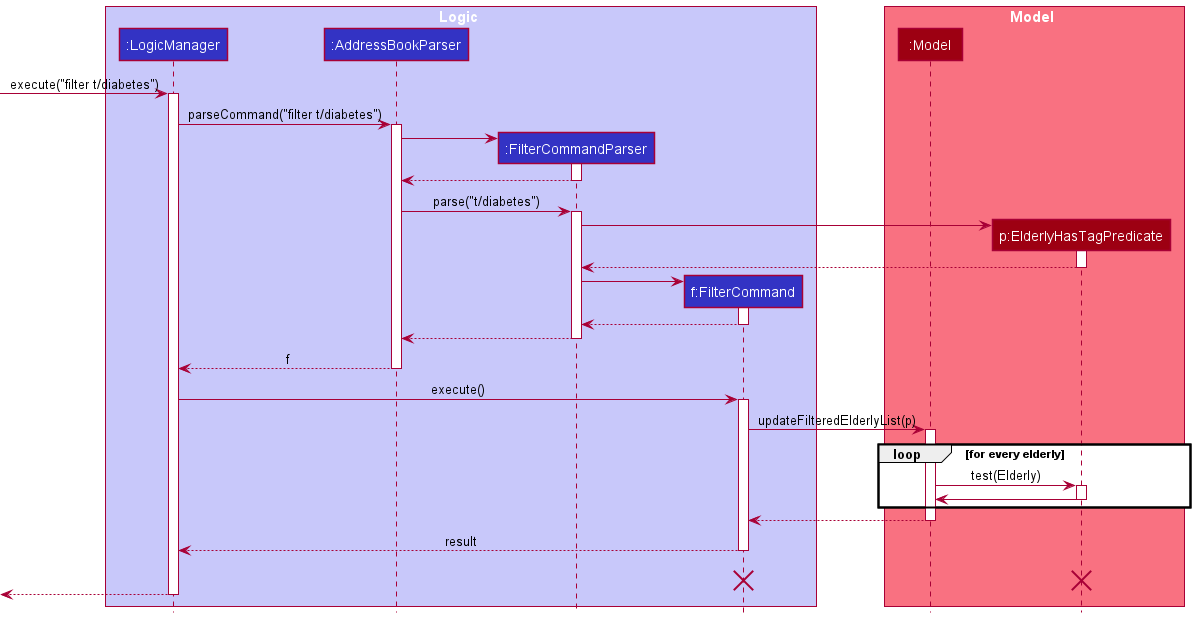
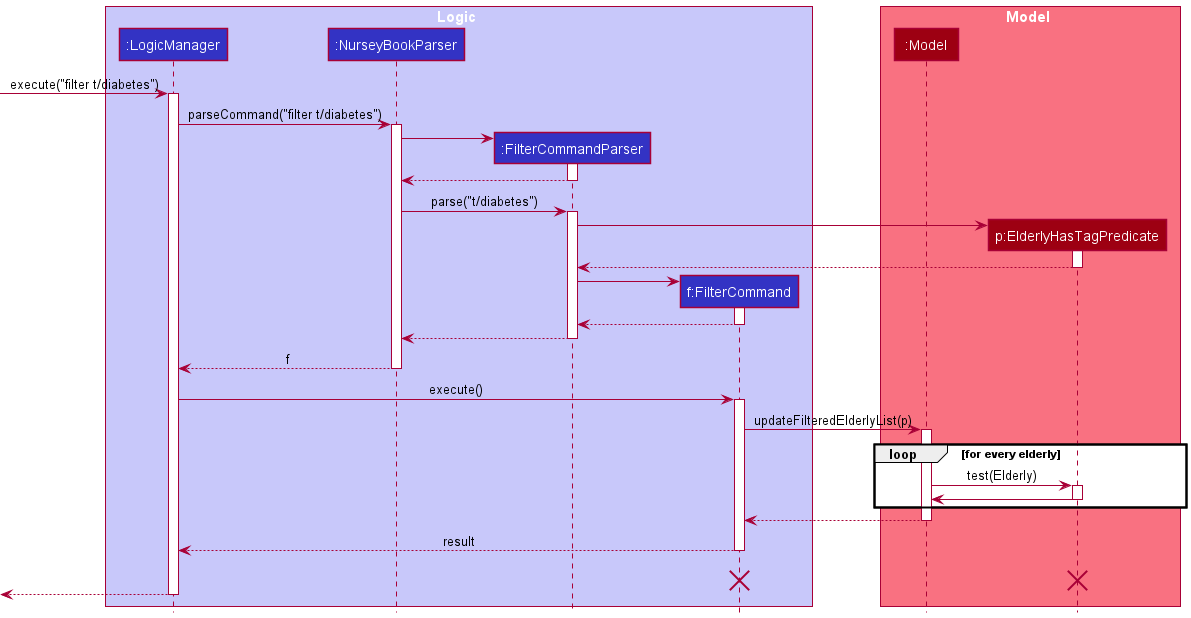
Update DG and UML diagrams

diff --git a/docs/DeveloperGuide.md b/docs/DeveloperGuide.md
@@ -9,7 +9,10 @@ title: Developer Guide
 
 ## **Acknowledgements**
 
-* {list here sources of all reused/adapted ideas, code, documentation, and third-party libraries -- include links to the original source as well}
+* [JavaFX](https://openjfx.io/)
+* [Jackson](https://github.com/FasterXML/jackson)
+* [JUnit5](https://github.com/junit-team/junit5)
+* [Address Book Level 4](https://github.com/se-edu/addressbook-level4)
 
 --------------------------------------------------------------------------------------------------------------------
 
@@ -23,7 +26,8 @@ Refer to the guide [_Setting up and getting started_](SettingUp.md).
 
 <div markdown="span" class="alert alert-primary">
 
-:bulb: **Tip:** The `.puml` files used to create diagrams in this document can be found in the [diagrams](https://github.com/se-edu/addressbook-level3/tree/master/docs/diagrams/) folder. Refer to the [_PlantUML Tutorial_ at se-edu/guides](https://se-education.org/guides/tutorials/plantUml.html) to learn how to create and edit diagrams.
+:bulb: **Tip:** The `.puml` files used to create diagrams in this document can be found in the [diagrams](https://github.com/AY2122S1-CS2103T-F13-2/tp/tree/master/docs/diagrams) folder. 
+Refer to the [_PlantUML Tutorial_ at se-edu/guides](https://se-education.org/guides/tutorials/plantUml.html) to learn how to create and edit diagrams.
 </div>
 
 ### Architecture
@@ -36,7 +40,7 @@ Given below is a quick overview of main components and how they interact with ea
 
 **Main components of the architecture**
 
-**`Main`** has two classes called [`Main`](https://github.com/se-edu/addressbook-level3/tree/master/src/main/java/seedu/address/Main.java) and [`MainApp`](https://github.com/se-edu/addressbook-level3/tree/master/src/main/java/seedu/address/MainApp.java). It is responsible for,
+**`Main`** has two classes called [`Main`](https://github.com/AY2122S1-CS2103T-F13-2/tp/blob/master/src/main/java/nurseybook/Main.java) and [`MainApp`](https://github.com/AY2122S1-CS2103T-F13-2/tp/blob/master/src/main/java/nurseybook/MainApp.java). It is responsible for,
 * At app launch: Initializes the components in the correct sequence, and connects them up with each other.
 * At shut down: Shuts down the components and invokes cleanup methods where necessary.
 
@@ -59,7 +63,7 @@ The *Sequence Diagram* below shows how the components interact with each other f
 Each of the four main components (also shown in the diagram above),
 
 * defines its *API* in an `interface` with the same name as the Component.
-* implements its functionality using a concrete `{Component Name}Manager` class (which follows the corresponding API `interface` mentioned in the previous point.
+* implements its functionality using a concrete `{Component Name}Manager` class which follows the corresponding API `interface` mentioned in the previous point.
 
 For example, the `Logic` component defines its API in the `Logic.java` interface and implements its functionality using the `LogicManager.java` class which follows the `Logic` interface. Other components interact with a given component through its interface rather than the concrete class (reason: to prevent outside component's being coupled to the implementation of a component), as illustrated in the (partial) class diagram below.
 
@@ -69,13 +73,13 @@ The sections below give more details of each component.
 
 ### UI component
 
-The **API** of this component is specified in [`Ui.java`](https://github.com/se-edu/addressbook-level3/tree/master/src/main/java/seedu/address/ui/Ui.java)
+The **API** of this component is specified in [`Ui.java`](https://github.com/AY2122S1-CS2103T-F13-2/tp/blob/master/src/main/java/nurseybook/ui/Ui.java)
 
 ![Structure of the UI Component](images/UiClassDiagram.png)
 
 The UI consists of a `MainWindow` that is made up of parts e.g.`CommandBox`, `ResultDisplay`, `ElderlyListPanel`, `StatusBarFooter` etc. All these, including the `MainWindow`, inherit from the abstract `UiPart` class which captures the commonalities between classes that represent parts of the visible GUI.
 
-The `UI` component uses the JavaFx UI framework. The layout of these UI parts are defined in matching `.fxml` files that are in the `src/main/resources/view` folder. For example, the layout of the [`MainWindow`](https://github.com/se-edu/addressbook-level3/tree/master/src/main/java/seedu/address/ui/MainWindow.java) is specified in [`MainWindow.fxml`](https://github.com/se-edu/addressbook-level3/tree/master/src/main/resources/view/MainWindow.fxml)
+The `UI` component uses the JavaFx UI framework. The layout of these UI parts are defined in matching `.fxml` files that are in the `src/main/resources/view` folder. For example, the layout of the [`MainWindow`](https://github.com/AY2122S1-CS2103T-F13-2/tp/blob/master/src/main/java/nurseybook/ui/MainWindow.java) is specified in [`MainWindow.fxml`](https://github.com/se-edu/AY2122S1-CS2103T-F13-2/tp/tree/master/src/main/resources/view/MainWindow.fxml)
 
 The `UI` component,
 
@@ -86,16 +90,16 @@ The `UI` component,
 
 ### Logic component
 
-**API** : [`Logic.java`](https://github.com/se-edu/addressbook-level3/tree/master/src/main/java/seedu/address/logic/Logic.java)
+**API** : [`Logic.java`](https://github.com/AY2122S1-CS2103T-F13-2/tp/blob/master/src/main/java/nurseybook/logic/Logic.java)
 
 Here's a (partial) class diagram of the `Logic` component:
 
 <img src="images/LogicClassDiagram.png" width="550"/>
 
 How the `Logic` component works:
-1. When `Logic` is called upon to execute a command, it uses the `AddressBookParser` class to parse the user command.
+1. When `Logic` is called upon to execute a command, it uses the `NurseyBookParser` class to parse the user command.
 1. This results in a `Command` object (more precisely, an object of one of its subclasses e.g., `AddCommand`) which is executed by the `LogicManager`.
-1. The command can communicate with the `Model` when it is executed (e.g. to add a elderly).
+1. The command can communicate with the `Model` when it is executed (e.g. to add an elderly).
 1. The result of the command execution is encapsulated as a `CommandResult` object which is returned back from `Logic`.
 
 The Sequence Diagram below illustrates the interactions within the `Logic` component for the `execute("deleteElderly 1")` API call.
@@ -110,33 +114,33 @@ Here are the other classes in `Logic` (omitted from the class diagram above) tha
 <img src="images/ParserClasses.png" width="600"/>
 
 How the parsing works:
-* When called upon to parse a user command, the `AddressBookParser` class creates an `XYZCommandParser` (`XYZ` is a placeholder for the specific command name e.g., `AddCommandParser`) which uses the other classes shown above to parse the user command and create a `XYZCommand` object (e.g., `AddCommand`) which the `AddressBookParser` returns back as a `Command` object.
+* When called upon to parse a user command, the `NurseyBookParser` class creates an `XYZCommandParser` (`XYZ` is a placeholder for the specific command name e.g., `AddCommandParser`) which uses the other classes shown above to parse the user command and create a `XYZCommand` object (e.g., `AddCommand`) which the `NurseyBookParser` returns back as a `Command` object.
 * All `XYZCommandParser` classes (e.g., `AddCommandParser`, `DeleteCommandParser`, ...) inherit from the `Parser` interface so that they can be treated similarly where possible e.g, during testing.
 
 ### Model component
-**API** : [`Model.java`](https://github.com/se-edu/addressbook-level3/tree/master/src/main/java/seedu/address/model/Model.java)
+**API** : [`Model.java`](https://github.com/AY2122S1-CS2103T-F13-2/tp/blob/master/src/main/java/nurseybook/model/Model.java)
 
 <img src="images/ModelClassDiagram.png" width="400" />
 
 
 The `Model` component,
 
-* stores the address book data i.e., all `Elderly` objects (which are contained in a `UniqueElderlyList` object).
-* implicitly also stores `Nok` objects which is contained in `Elderly` objects
+* stores the nursey book data i.e., all `Elderly` objects (which are contained in a `UniqueElderlyList` object) and all `Task` objects (which are contained in a `UniqueTaskList` object).
 * stores the currently 'selected' `Elderly` objects (e.g., results of a search query) as a separate _filtered_ list which is exposed to outsiders as an unmodifiable `ObservableList<Elderly>` that can be 'observed' e.g. the UI can be bound to this list so that the UI automatically updates when the data in the list change.
-* stores the currently 'selected' `Task` objects in a similar way to `Elderly` objects
-which is also exposed to outsiders as an unmodifiable `ObservableList<Task>`.
+* stores the currently 'selected' `Task` objects in a similar way to `Elderly` objects which is also exposed to outsiders as an unmodifiable `ObservableList<Task>`.
 * stores a `UserPref` object that represents the user’s preferences. This is exposed to the outside as a `ReadOnlyUserPref` objects.
-* does not depend on any of the other three components (as the `Model` represents data entities of the domain, they should make sense on their own without depending on other components)
+* stores the states of the nursey book after the execution of commands that change the data in `NurseyBookState` objects.
+* depends on some classes in the `Logic` component because the `Model` component saves the result after the execution of commands that change the data of nursey book.
+* does not depend on the `Storage` and `Ui` components (as the `Model` represents data entities of the domain, they should make sense on their own without depending on `Storage` and `Ui`)
 
 
-<img src="images/DetailedModelClassDiagram.png" width="800" />
+<img src="images/DetailedModelClassDiagram.png" width="800" /> //TODO 
 
 
-More details regarding `Person`, `Elderly`, `Nok` and `Task` objects.
+More details regarding `Person`, `Elderly`, `Nok`(Next of kin) and `Task` objects.
 
 
-<div markdown="span" class="alert alert-info">:information_source: **Note:** An alternative (arguably, a more OOP) model is given below. It has a `Tag` list in the `AddressBook`, which `Elderly` references. This allows `AddressBook` to only require one `Tag` object per unique tag, instead of each `Elderly` needing their own `Tag` objects.<br>
+<div markdown="span" class="alert alert-info">:information_source: **Note:** An alternative (arguably, a more OOP) model is given below. It has a `Tag` list in the `NurseyBook`, which `Elderly` references. This allows `NurseyBook` to only require one `Tag` object per unique tag, instead of each `Elderly` needing their own `Tag` objects.<br>
 
 <img src="images/BetterModelClassDiagram.png" width="250" />
 
@@ -145,18 +149,18 @@ More details regarding `Person`, `Elderly`, `Nok` and `Task` objects.
 
 ### Storage component
 
-**API** : [`Storage.java`](https://github.com/se-edu/addressbook-level3/tree/master/src/main/java/seedu/address/storage/Storage.java)
+**API** : [`Storage.java`](https://github.com/AY2122S1-CS2103T-F13-2/tp/blob/master/src/main/java/nurseybook/storage/Storage.java)
 
 <img src="images/StorageClassDiagram.png" width="550" />
 
 The `Storage` component,
-* can save both address book data and user preference data in json format, and read them back into corresponding objects.
-* inherits from both `AddressBookStorage` and `UserPrefStorage`, which means it can be treated as either one (if only the functionality of only one is needed).
+* can save both nursey book data and user preference data in json format, and read them back into corresponding objects.
+* inherits from both `NurseyBookStorage` and `UserPrefStorage`, which means it can be treated as either one (if only the functionality of only one is needed).
 * depends on some classes in the `Model` component (because the `Storage` component's job is to save/retrieve objects that belong to the `Model`)
 
 ### Common classes
 
-Classes used by multiple components are in the `seedu.addressbook.commons` package.
+Classes used by multiple components are in the `nurseybook.commons` package.
 
 --------------------------------------------------------------------------------------------------------------------
 
@@ -186,7 +190,7 @@ As tags can only be alphanumeric, the `parse` method in FilterCommandParser chec
 If there is a tag that is invalid, an exception will be thrown.
 
 When executing the filter command, the `updateFilteredElderlyList` method of Model calls other methods that are omitted from the diagram.
-One of the methods then calls the `test` method of the ElderlyHasTagPredicate object with every Elderly saved in NurseyBook.
+One of the methods then calls the `test` method of the ElderlyHasTagPredicate object with every Elderly saved in nursey book.
 The list of Elderly that return true for `test` is then assigned to `filteredElderlies` in ModelManager and displayed in the GUI.
 
 #### Design Considerations
@@ -240,7 +244,7 @@ If a user does not specify `Recurrence` when adding a new `Task`, it will defaul
     * Pros: User Experience could be more intuitive in the sense that the user can focus on the next deadline rather than the current completed task
     * Cons: There is an increase in coupling between the `Task`’s `Status`, `Recurrence` and `DateTime` because `DateTime` now needs to depend on `Status` and `Recurrence` to decide if its date and time needs to be changed. This can increase bugs and make testing harder as more functions would have side effects (reseting task’s completion `Status` and updating `Task`’s `DateTime`).
 
-* Alternative 2: Once a `DateTime` of a `Task` has been passed, this will trigger Nurseybook to update the new `DateTime` of the `Task` according to its `Recurrence` type.
+* Alternative 2: Once a `DateTime` of a `Task` has been passed, this will trigger nursey book to update the new `DateTime` of the `Task` according to its `Recurrence` type.
     * Pros: Easier to implement because there is only one condition that needs to be checked (if the `Task`’s `DateTime` is before the current `DateTime`) for the `Task`’s `DateTime` to be updated.
     * Cons: Restricted choice for users who would prefer seeing upcoming tasks to seeing completed tasks.
 
@@ -344,7 +348,7 @@ The following activity diagram summarizes what happens when a user executes a ne
 
 * **Alternative 1:** Saves the entire nursey book.
   * Pros: Easy to implement.
-  * Cons: May have performance issues in terms of memory usage as copies of the entire nurseybook are saved.
+  * Cons: May have performance issues in terms of memory usage as copies of the entire nursey book are saved.
 
 * **Alternative 2:** Individual command knows how to undo/redo by itself.
   * Pros: Will use less memory (e.g. for `deleteElderly`, just save the elderly being deleted).
@@ -377,9 +381,9 @@ Given below is an example usage scenario and how the delete Nok mechanism behave
 
 Step 1. The user and executes `deleteNok 1` command to delete the NoK details of the first elderly in the elderly list. This prompts the `LogicManager` to start its execution by calling its `execute()` command.
 
-Step 2. `LogicManager` calls the `AddressBookParser` to parse the command.
+Step 2. `LogicManager` calls the `NurseyBookParser` to parse the command.
 
-Step 3. The `AddressBookParser` creates a new `DeleteNokCommandParser` which will `parse()` the arguments. This creates and returns a new `DeleteNokCommand` which is ready to be executed, containing the index of the targetted elderly as one of its fields.
+Step 3. The `NurseyBookParser` creates a new `DeleteNokCommandParser` object and calls its `parse` method to parse the arguments. This creates and returns a new `DeleteNokCommand` which is ready to be executed, containing the index of the target elderly as one of its fields.
 
 Step 4. The `DeleteNokCommand` is executed by calling its `execute()` method. This calls the `Model#getFilteredElderlyList()` and retrieves the filtered elderly list, which should contain all elderlies.
 
@@ -397,8 +401,6 @@ The following sequence diagram shows how the find task operation works:
 
 </div>
 
-
-
 ### Find task feature
 
 #### Implementation
@@ -409,9 +411,9 @@ Given below is an example usage scenario and how the find task mechanism behaves
 
 Step 1. The user launches the application and executes `findTask Pfizer` command to search for a list of tasks whose `Description` contains the keyword `Pfizer`. This prompts the `LogicManager` to start its execution by calling its `execute()` command.
 
-Step 2. `LogicManager` calls the `AddressBookParser` to parse the command.
+Step 2. `LogicManager` calls the `NurseyBookParser` to parse the command.
 
-Step 3. The `AddressBookParser` creates a new `FindCommandParser` which will `parse()` the arguments. This creates a new `DescriptionContainsKeywordPredicate` that checks if a `Task`'s `Description` contains the keyword(s) - `Pfizer` in this case. A new `FindTaskCommand` which is ready to be executed is returned, containing the predicate as one of its fields.
+Step 3. The `NurseyBookParser` creates a new `FindCommandParser` which will `parse()` the arguments. This creates a new `DescriptionContainsKeywordPredicate` that checks if a `Task`'s `Description` contains the keyword(s) - `Pfizer` in this case. A new `FindTaskCommand` which is ready to be executed is returned, containing the predicate as one of its fields.
 
 Step 4. The `FindTaskCommand` is executed by calling its `execute()` method. This calls the `Model#updateFilteredTaskList()` and updates the filtered task list by checking the tasks with `DescriptionContainsKeywordPredicate`.
 
@@ -429,11 +431,11 @@ The following sequence diagram shows how the find task operation works:
 
 #### How `CommandResult` is changed
 
-As NurseyBook has to support the display of two different lists (contacts vs task), each `CommandResult` object will now store the information which list should be displayed to the user.
+As nursey book has to support the display of two different lists (contacts vs task), each `CommandResult` object will now store the information which list should be displayed to the user.
 
 The following class diagram shows the changes made to the `CommandResult` class. Each `CommandResult` has an enum that specifies the type of display.
 
-* `CommandResult#ListDisplayChange.PERSON` — Specifies the elderly/contact list to be displayed after the current command execution
+* `CommandResult#ListDisplayChange.ELDERLY` — Specifies the elderly list to be displayed after the current command execution
 * `CommandResult#ListDisplayChange.TASK` — Specifies the task list to be displayed after the current command execution
 * `CommandResult#ListDisplayChange.NONE` — Specifies the type of displayed list should not change after the current command execution
 
@@ -447,13 +449,13 @@ The following class diagram shows the changes made to the `CommandResult` class.
 
 Given below is an example usage scenario and how the display of elderly/task list mechanism behaves at each step. An example command is `viewElderly`, and the mechanism of `viewTasks` is similar.
 
-Step 1. The user launches the application for the first time. The default display of NurseyBook shows the list of all elderly contacts that were added in.
+Step 1. The user launches the application for the first time. The default display of nursey book shows the list of all elderly that were added in.
 
-Step 2. The user runs a few other available commands, and wants to switch back to the default display with the elderly contacts, thus executes the `viewElderly` command.
+Step 2. The user runs a few other available commands, and wants to switch back to the default display with the elderly, thus executes the `viewElderly` command.
 
 Step 3. `MainWindow#executeCommand("viewElderly")` is called. Within the method body, it calls the `LogicManager#execute()` which returns a new `CommandResult`.
 
-Step 4. `MainWindow#executeCommand()` processes the `CommandResult`. It calls `MainWindow#handleChange()` to change the display of the list, to show all elderly contacts.
+Step 4. `MainWindow#executeCommand()` processes the `CommandResult`. It calls `MainWindow#handleChange()` to change the display of the list, to show all elderly.
 
 The following activity diagram summarizes what happens in the `MainWindow` class when the user enters either the `viewElderly` or `viewTasks` command.
 
@@ -461,8 +463,8 @@ The following activity diagram summarizes what happens in the `MainWindow` class
 
 #### Design considerations:
 
-**Aspect: How to display contacts (elderlies) and tasks separately**
-* **Alternative 1 (current choice):** Using a commands `viewElderly` and `viewTasks`, switch the display in the main window between the elderly list and task list stored in `AddressBook`.
+**Aspect: How to display elderlies and tasks separately**
+* **Alternative 1 (current choice):** Using a commands `viewElderly` and `viewTasks`, switch the display in the main window between the elderly list and task list stored in `NurseyBook`.
   * Pros: Cleaner display, able to display the necessary information without cluttering the display window
   * Cons: The need to implement two new commands, `viewElderly` and `viewTask` for the user to view the two lists respectively. The code for the two commands might contain repetition due to the similarity in function.
 
